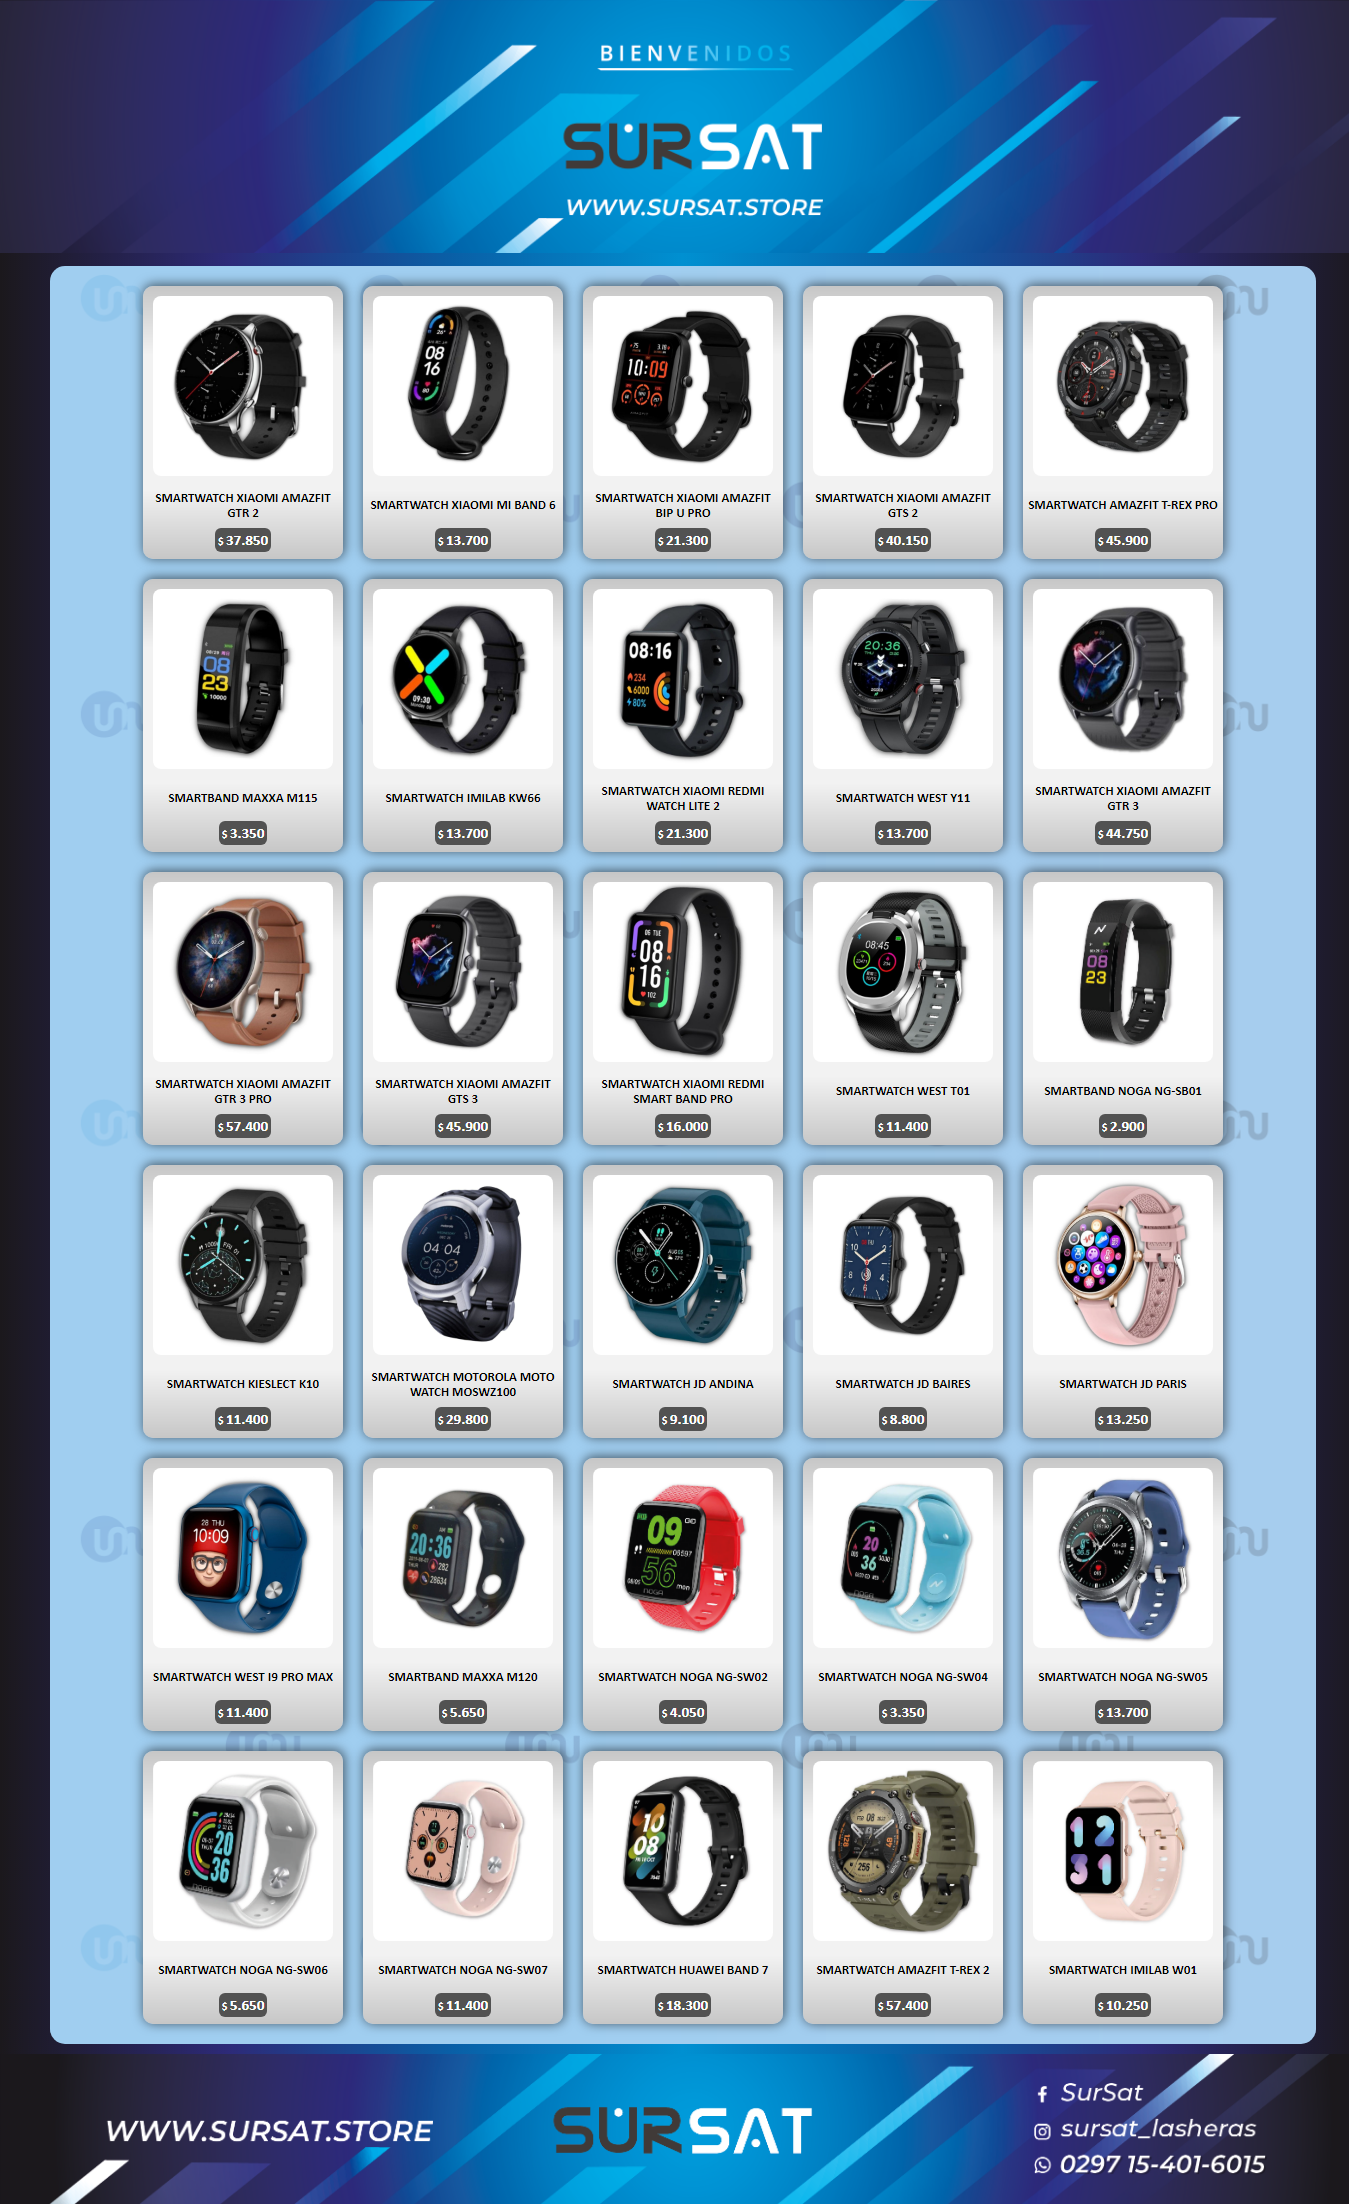
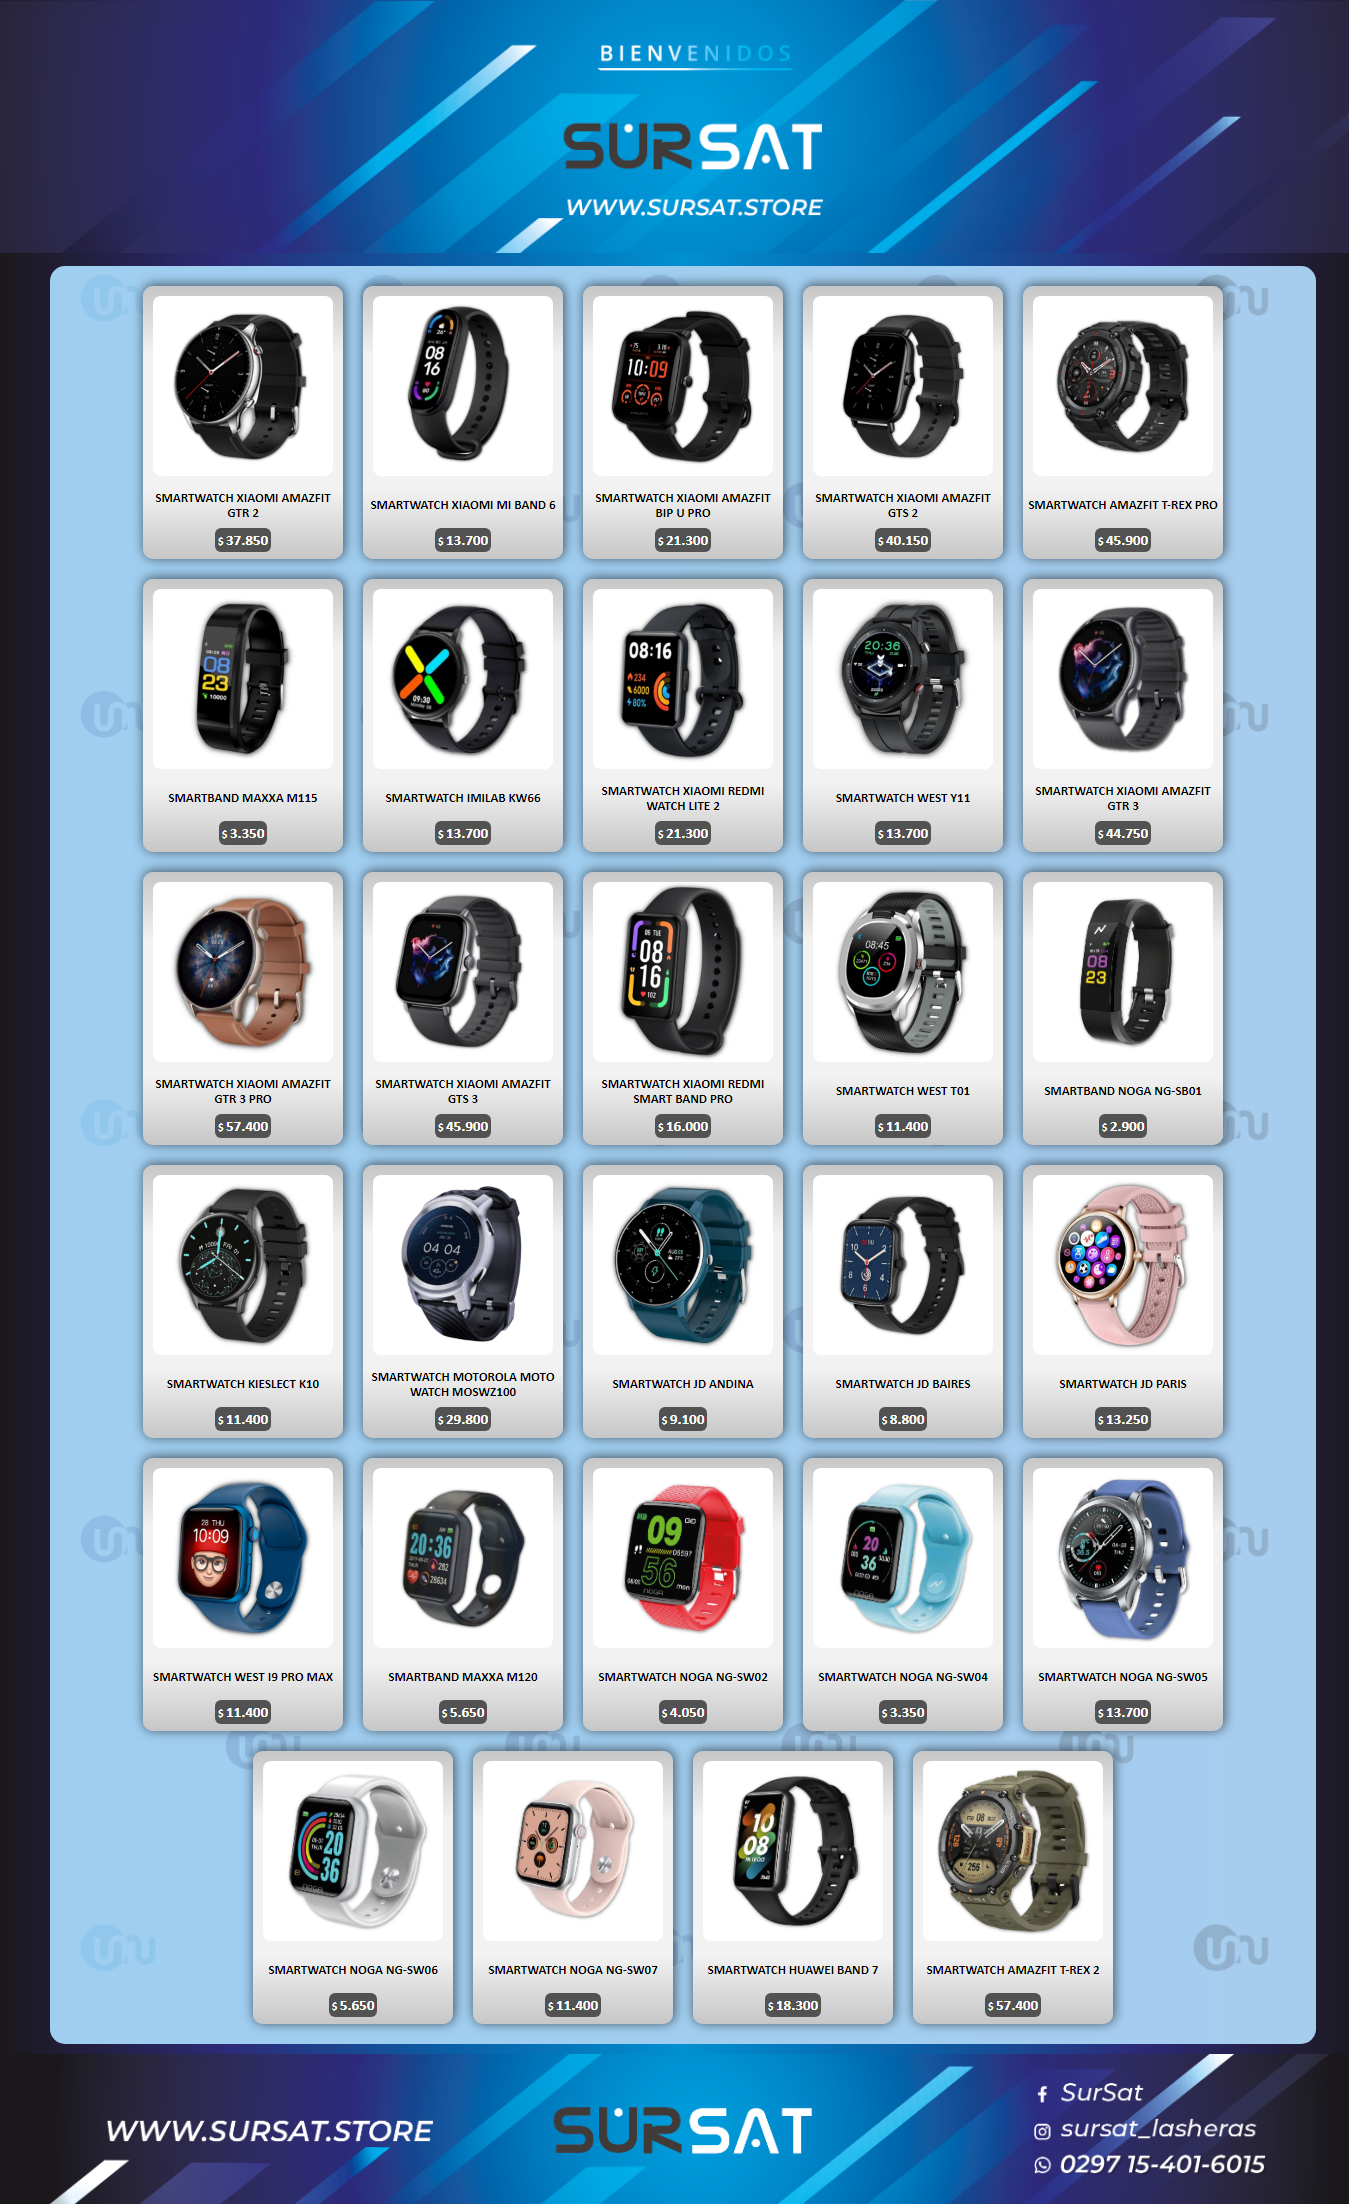
update catalogos + estilo responsive

Changed region(s): [[0.0934, 0.7713, 0.934, 0.9256]]

diff --git a/styles/catalogueStyle.css b/styles/catalogueStyle.css
@@ -1,12 +1,11 @@
 /*banners for cellphones*/
 @media only screen and (max-width: 700px) {
   #audioPhoto {}
-  #aurigamerPhoto {}
+  #gamerPhoto {}
   #aurinearPhoto {}
   #aurivinchaPhoto {}
   #celularesPhoto {}
   #perifericosPhoto {}
-  #perigamerPhoto {}
   #premiumPhoto {content:url("../images/catalogoPremiumPhone.png");}
   #smartwatchPhoto {}
   #soportesPhoto {}
@@ -15,12 +14,11 @@
 /*banners for desktop*/
 @media only screen and (min-width: 701px) {
   #audioPhoto {}
-  #aurigamerPhoto {}
+  #gamerPhoto {}
   #aurinearPhoto {}
   #aurivinchaPhoto {}
   #celularesPhoto {}
   #perifericosPhoto {}
-  #perigamerPhoto {}
   #premiumPhoto {content:url("../images/catalogoPremiumPC.png");}
   #smartwatchPhoto {}
   #soportesPhoto {}
@@ -37,6 +35,7 @@
   margin: 10px 10%;
   padding: 10px 0px;
   border-radius: 15px;
+  min-width: 392px;
   width: 80%;
   height: auto;
   background-repeat: repeat; 
@@ -55,19 +54,22 @@
 .catalogueElement {
   flex-flow: column;   
   margin: 10px 40px;
+  min-width: 350px;
   width: 100%; 
   height: auto;
   border: 1px solid #3b5696;
+  border-radius: 8px;
   -webkit-box-shadow: 1px -1px 11px 1px rgb(0 0 0 / 54%);
 }  
 
 .catalogueElement img {
   width: 100%;
   height: 100%;
-  //border-radius: 8px;
+  border-radius: 8px;
 }
 
 body {
+  min-width: 500px;
   font: 13px 'Calibri', sans-serif;
   text-align: center;
   margin: 0px;

diff --git a/index.html b/index.html
@@ -14,8 +14,8 @@
     <a class="catalogueElement" href="images/audio.png">
       <img id="audioPhoto" src="">
     </a>
-    <a class="catalogueElement" href="images/aurigamer.png">
-      <img id="aurigamerPhoto" src="">
+    <a class="catalogueElement" href="images/gamer.png">
+      <img id="gamerPhoto" src="">
     </a>
     <a class="catalogueElement" href="images/aurinear.png">
       <img id="aurinearPhoto" src="">
@@ -28,9 +28,6 @@
     </a>
     <a class="catalogueElement" href="images/perifericos.png">
       <img id="perifericosPhoto" src="">
-    </a>
-    <a class="catalogueElement" href="images/perigamer.png">
-      <img id="perigamerPhoto" src="">
     </a>
     <a class="catalogueElement" href="images/premium.png">
       <img id="premiumPhoto" src="">
